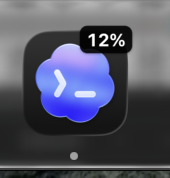
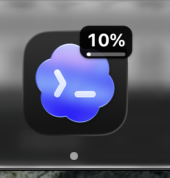
feat: add quota progress bar and release packaging

diff --git a/Sources/CodexQuotaDock/ChatGPTDockIconController.swift b/Sources/CodexQuotaDock/ChatGPTDockIconController.swift
@@ -195,6 +195,7 @@ final class ChatGPTDockIconController {
 
     private func drawBadge(_ text: String, in canvas: NSRect) {
         let iconSize = min(canvas.width, canvas.height)
+        let progressFraction = quotaFraction(from: text)
         let font = NSFont.monospacedDigitSystemFont(
             ofSize: iconSize * 0.135,
             weight: .bold
@@ -206,8 +207,13 @@ final class ChatGPTDockIconController {
         let textSize = (text as NSString).size(withAttributes: attributes)
         let horizontalPadding = iconSize * 0.052
         let verticalPadding = iconSize * 0.025
+        let progressBarHeight = progressFraction == nil ? 0 : iconSize * 0.028
+        let progressBarSpacing = progressFraction == nil ? 0 : iconSize * 0.012
         let badgeWidth = max(iconSize * 0.25, textSize.width + horizontalPadding * 2)
-        let badgeHeight = textSize.height + verticalPadding * 2
+        let badgeHeight = textSize.height
+            + verticalPadding * 2
+            + progressBarHeight
+            + progressBarSpacing
         let margin = iconSize * 0.065
         let badgeRect = NSRect(
             x: canvas.maxX - margin - badgeWidth,
@@ -232,9 +238,52 @@ final class ChatGPTDockIconController {
 
         let textOrigin = NSPoint(
             x: badgeRect.midX - textSize.width / 2,
-            y: badgeRect.midY - textSize.height / 2
+            y: badgeRect.minY
+                + verticalPadding
+                + progressBarHeight
+                + progressBarSpacing
         )
         (text as NSString).draw(at: textOrigin, withAttributes: attributes)
+
+        if let progressFraction {
+            let trackRect = NSRect(
+                x: badgeRect.minX + horizontalPadding,
+                y: badgeRect.minY + verticalPadding * 0.72,
+                width: badgeRect.width - horizontalPadding * 2,
+                height: progressBarHeight
+            )
+            NSColor.white.withAlphaComponent(0.38).setFill()
+            NSBezierPath(
+                roundedRect: trackRect,
+                xRadius: progressBarHeight / 2,
+                yRadius: progressBarHeight / 2
+            ).fill()
+
+            let completedWidth = trackRect.width * progressFraction
+            if completedWidth > 0 {
+                let completedRect = NSRect(
+                    x: trackRect.minX,
+                    y: trackRect.minY,
+                    width: max(progressBarHeight * 1.15, completedWidth),
+                    height: progressBarHeight
+                )
+                NSColor.white.withAlphaComponent(0.96).setFill()
+                NSBezierPath(
+                    roundedRect: completedRect,
+                    xRadius: progressBarHeight / 2,
+                    yRadius: progressBarHeight / 2
+                ).fill()
+            }
+        }
+    }
+
+    private func quotaFraction(from badgeText: String) -> Double? {
+        guard badgeText.hasSuffix("%") else { return nil }
+        let percentageText = badgeText.dropLast()
+        guard let percentage = Double(percentageText), (0...100).contains(percentage) else {
+            return nil
+        }
+        return percentage / 100
     }
 
     private func relativePath(from baseDirectory: URL, to destination: URL) -> String {

diff --git a/Sources/CodexQuotaDock/main.swift b/Sources/CodexQuotaDock/main.swift
@@ -5,6 +5,7 @@ final class AppDelegate: NSObject, NSApplicationDelegate {
     private let rateLimitClient = CodexRateLimitClient()
     private let dockIconController = ChatGPTDockIconController()
     private var quotaRefreshTimer: Timer?
+    private var badgeRefreshTimer: Timer?
     private var statusItem: NSStatusItem?
     private var lastBadgeText: String?
     private var lastSnapshot: QuotaSnapshot?
@@ -19,12 +20,16 @@ final class AppDelegate: NSObject, NSApplicationDelegate {
         quotaRefreshTimer = Timer.scheduledTimer(withTimeInterval: 60, repeats: true) { [weak self] _ in
             self?.rateLimitClient.refresh()
         }
+        badgeRefreshTimer = Timer.scheduledTimer(withTimeInterval: 30, repeats: true) { [weak self] _ in
+            self?.reapplyLastBadge()
+        }
 
         rateLimitClient.start()
     }
 
     func applicationWillTerminate(_ notification: Notification) {
         quotaRefreshTimer?.invalidate()
+        badgeRefreshTimer?.invalidate()
         NSWorkspace.shared.notificationCenter.removeObserver(self)
         rateLimitClient.stop()
         dockIconController.restoreOriginalIcon()
@@ -86,12 +91,17 @@ final class AppDelegate: NSObject, NSApplicationDelegate {
             statusItem?.button?.toolTip = error.localizedDescription
         }
         rebuildStatusMenu()
+        DispatchQueue.main.asyncAfter(deadline: .now() + 1) { [weak self] in
+            self?.reapplyLastBadge()
+        }
     }
 
     private func displayError(_ message: String) {
         lastError = message
-        lastBadgeText = "!"
-        try? dockIconController.showBadge("!")
+        if lastSnapshot == nil {
+            lastBadgeText = "!"
+            try? dockIconController.showBadge("!")
+        }
         statusItem?.button?.toolTip = message
         rebuildStatusMenu()
     }

diff --git a/README.md b/README.md
@@ -1,5 +1,5 @@
 <div align="center">
-  <img src="docs/chatgpt-dock-quota.png" width="170" alt="ChatGPT Dock icon showing 12% Codex quota remaining">
+  <img src="docs/chatgpt-dock-quota.png" width="170" alt="ChatGPT Dock icon showing Codex quota and a progress bar">
   <h1>Codex Dock Quota</h1>
   <p>Show your remaining Codex quota directly on the ChatGPT Dock icon for macOS.</p>
   <p><a href="README.zh-CN.md">简体中文</a></p>
@@ -10,7 +10,7 @@
 
 ## What it does
 
-- Displays the remaining percentage on ChatGPT's own Dock icon—no second Dock icon.
+- Displays the remaining percentage and a proportional white progress bar on ChatGPT's own Dock icon—no second Dock icon.
 - Reads the main `codex` quota bucket and uses the most constrained active window.
 - Refreshes every 60 seconds and after the Mac wakes.
 - Supports ChatGPT's light and dark Codex icons.
@@ -26,6 +26,14 @@
 
 ## Build and run
 
+### Install the release build
+
+Download the latest [macOS DMG](https://github.com/Gxz-NGU/codex-dock-quota/releases/latest), open it, and drag **Codex Quota** into **Applications**.
+
+The current downloadable build targets Apple Silicon (`arm64`). It is ad-hoc signed and not notarized because this project does not currently have an Apple Developer ID. If Gatekeeper blocks the first launch, Control-click the app and choose **Open**, or build it locally from source.
+
+### Build from source
+
 ```bash
 ./scripts/build_app.sh
 open "dist/Codex Quota.app"
@@ -38,7 +46,7 @@ The utility runs as an `LSUIElement` background app, so it does not create its o
 1. Locates the `codex` executable bundled inside `ChatGPT.app`.
 2. Starts `codex app-server` over stdio, completes the `initialize` handshake, and calls `account/rateLimits/read`.
 3. Selects `rateLimitsByLimitId["codex"]` and calculates `100 - usedPercent` from the most constrained active window.
-4. Draws the percentage into copies of ChatGPT's built-in light and dark Codex icons.
+4. Draws the percentage and proportional progress bar into copies of ChatGPT's built-in light and dark Codex icons.
 5. Stores the generated PNGs in a per-user directory under `/private/tmp` and redraws them only when the displayed value changes.
 6. Points ChatGPT's existing `CodexDockTilePlugin` at those images and sends its preference-change notification.
 

diff --git a/README.zh-CN.md b/README.zh-CN.md
@@ -1,5 +1,5 @@
 <div align="center">
-  <img src="docs/chatgpt-dock-quota.png" width="170" alt="ChatGPT Dock 图标直接显示 Codex 剩余 12%">
+  <img src="docs/chatgpt-dock-quota.png" width="170" alt="ChatGPT Dock 图标直接显示 Codex 剩余额度和进度条">
   <h1>Codex Dock Quota</h1>
   <p>在 macOS 的 ChatGPT 原 Dock 图标上直接显示 Codex 剩余额度。</p>
   <p><a href="README.md">English</a></p>
@@ -10,7 +10,7 @@
 
 ## 功能
 
-- 百分比直接显示在 ChatGPT 自己的 Dock 图标上，不产生第二个 Dock 图标。
+- 百分比和按比例变化的白色进度条直接显示在 ChatGPT 自己的 Dock 图标上，不产生第二个 Dock 图标。
 - 读取主 `codex` 额度，并显示当前约束最紧的有效时间窗口。
 - 每 60 秒以及 Mac 唤醒后自动刷新。
 - 同时生成明暗两套 ChatGPT Codex 图标。
@@ -26,6 +26,14 @@
 
 ## 构建与运行
 
+### 安装 Release 版本
+
+下载最新的 [macOS DMG](https://github.com/Gxz-NGU/codex-dock-quota/releases/latest)，打开后把 **Codex Quota** 拖入 **Applications**。
+
+当前下载版本面向 Apple Silicon（`arm64`）。由于项目目前没有 Apple Developer ID，应用只做了临时签名、尚未经过 Apple 公证。如果首次启动被 Gatekeeper 阻止，可以按住 Control 点击应用后选择“打开”，或者从源码自行构建。
+
+### 从源码构建
+
 ```bash
 ./scripts/build_app.sh
 open "dist/Codex Quota.app"
@@ -38,7 +46,7 @@ open "dist/Codex Quota.app"
 1. 定位 `ChatGPT.app` 内置的 `codex` 可执行文件。
 2. 通过标准输入输出启动 `codex app-server`，完成 `initialize` 握手并调用 `account/rateLimits/read`。
 3. 选择 `rateLimitsByLimitId["codex"]`，从约束最紧的有效窗口计算 `100 - usedPercent`。
-4. 在 ChatGPT 内置的明暗 Codex 图标副本上绘制百分比。
+4. 在 ChatGPT 内置的明暗 Codex 图标副本上绘制百分比和对应进度条。
 5. 将生成的 PNG 写入 `/private/tmp` 下按用户隔离的目录，并且只在显示值变化时重绘。
 6. 让 ChatGPT 已有的 `CodexDockTilePlugin` 加载这些图片，并发送插件的配置变更通知。
 
